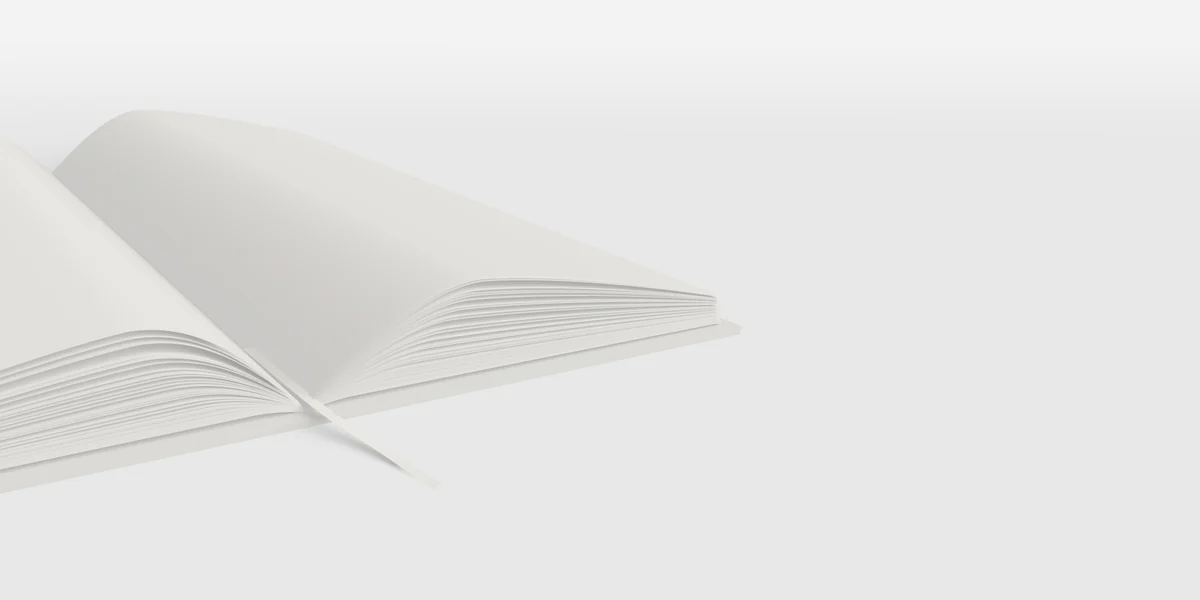
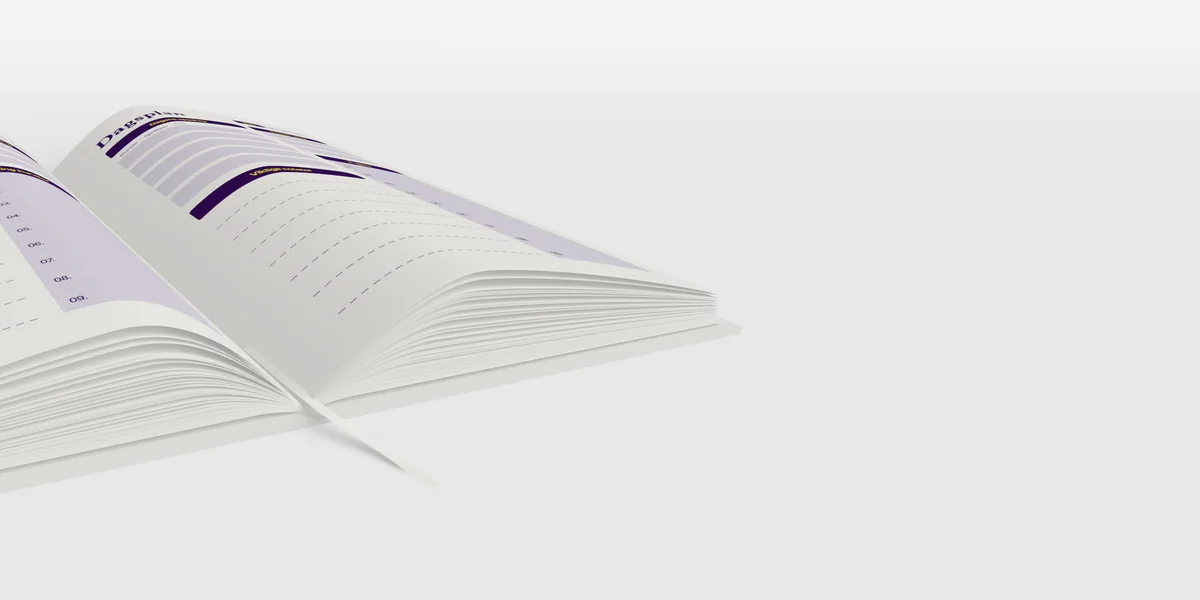
Styupan: day planner for a translation bureau head on the open-book render

diff --git a/tools/book-render/open-book.html b/tools/book-render/open-book.html
@@ -36,8 +36,8 @@ const paper = new THREE.MeshStandardMaterial({ color: 0xfbfaf6, roughness: 0.9, 
 const PUR = '#3C1A5B', YEL = '#FFF748', TINT = '#E4DEE9', PAPER = '#fbfaf6', PX = 10;
 await Promise.all(['700 100px "Crimson Text"', '600 40px "Inter Tight"', '500 30px "Inter Tight"'].map(f => document.fonts.load(f)));
 const SPREAD_PAGES = {
-  '-1': { title: 'Dagsplan', a: ['Dagens oppdrag', 'Kunde  ·  Språkpar  ·  Frist', 5, 'Viktige notater'], b: ['Frister i dag', 3, 'Å gjøre'] },
-  '1':  { title: 'Oppfølging', a: ['Fordeling', 'Oversetter  ·  Oppdrag  ·  Ord', 5, 'Korrektur'], b: ['Fakturering', 3, 'Ring kunder'] },
+  '1':  { title: 'Dagsplan', a: ['Dagens oppdrag', 'Kunde  ·  Språkpar  ·  Frist', 5, 'Viktige notater'], b: ['Frister i dag', 3, 'Å gjøre'] },
+  '-1': { title: 'Oppfølging', a: ['Fordeling', 'Oversetter  ·  Oppdrag  ·  Ord', 5, 'Korrektur'], b: ['Fakturering', 3, 'Ring kunder'] },
 };
 function tab(g, x, y, w, h, fill, label, size = 40) {
   g.fillStyle = fill; g.beginPath(); g.roundRect(x, y, w, h, [12, h * 0.62, 12, 12]); g.fill();
@@ -81,7 +81,8 @@ let seed = 3; const rnd = () => (seed = (seed * 16807) % 2147483647) / 214748364
 function sheet(side, i) {
   const t = i / (N - 1);
   const base = 0.045 * i;
-  const lift = (2 + 26 * Math.pow(t, 2.2)) * (0.95 + 0.1 * rnd());
+  const k = 0.95 + 0.1 * rnd();                          // always drawn, so the other sheets keep their shapes
+  const lift = (2 + 26 * Math.pow(t, 2.2)) * (i === N - 1 ? 1.08 : k);   // the top sheet (the planner page) stays highest
   const crest = 14 + 34 * t;                              // where the sheet stops rising
   const fall = 0.25 + 0.25 * (1 - t);                     // how much of the lift is left at the fore edge
   const geo = new THREE.PlaneGeometry(1, D, 120, 1);

diff --git a/styupan.md b/styupan.md
@@ -33,7 +33,7 @@ Sources: Instagram [@nortranslations](https://www.instagram.com/nortranslations/
 1. **Intro** — her Figma frame 462:2703 (the purple cover with the round logo, the name, OVERSETTELSESBURÅ and scattered letters), exported at 2×. No grey stage (2026-09-29): the purple band fills the full content width and the grey strip below it is dropped, so the round logo (Figma 462:2742, exported on its own and completed at the bottom, where the frame had clipped it) hangs below the purple edge onto the white page. Transparent WebP, 3072 × 970: `assets/work/styupan/intro-3072.webp` + `intro-1536.webp`.
 2. **About / Objective / Idea / Quote.**
 3. **Construction** — the mark on a construction grid, built in SVG from the logo vectors (Figma 881:83892, 169 × 127 units). Guides follow the real geometry: the outer box, the spine at 84.5, the right page 84.5–153.6 × 15–112, the S and T boxes, cap line 37 and baselines 85 / 90.2, the two page-top arcs, each a circle of radius 85.3 through the page corners, and two more circles of the same radius below the book (centres at y 201.1, the top arcs shifted down 115.8) that draw the page bottoms (added 2026-09-29). Yellow mark on the purple ground, dashed light guides, a large faint copy of the mark behind (references: Bexel, RR and octopus grids).
-4. **Colour and type** — Purple #3C1A5B (RGB 60, 26, 91), Yellow #FFF748 (RGB 255, 247, 72), Paper #F5F5F5 (RGB 245, 245, 245), with CMYK as a plain RGB-to-CMYK conversion, marked as an estimate (Purple 34 71 0 64, Yellow 0 3 72 0, Paper 0 0 0 4; not a print-proofed profile); the Crimson Text specimen, laid out as in her reference (a close-up of an open white book with a quote beside it, 2026-09-29): a rendered open book fills the tile, a large purple "Aa" sits on the left, the name, OVERSETTELSESBURÅ and a Norwegian line on the right, the font name small below. The book is a three.js render, no stock photo ([`tools/book-render/open-book.html`](tools/book-render/open-book.html)): 46 curved sheets per side that rise from the gutter and fan out, a ribbon bookmark, soft light averaged over 96 passes, the table fading to white; `assets/work/styupan/type-book-2400.webp` + `-1200.webp`.
+4. **Colour and type** — Purple #3C1A5B (RGB 60, 26, 91), Yellow #FFF748 (RGB 255, 247, 72), Paper #F5F5F5 (RGB 245, 245, 245), with CMYK as a plain RGB-to-CMYK conversion, marked as an estimate (Purple 34 71 0 64, Yellow 0 3 72 0, Paper 0 0 0 4; not a print-proofed profile); the Crimson Text specimen, laid out as in her reference (a close-up of an open white book with a quote beside it, 2026-09-29): a rendered open book fills the tile, a large purple "Aa" sits on the left, the name, OVERSETTELSESBURÅ and a Norwegian line on the right, the font name small below. The book is a three.js render, no stock photo ([`tools/book-render/open-book.html`](tools/book-render/open-book.html)): 46 curved sheets per side that rise from the gutter and fan out, a ribbon bookmark, soft light averaged over 96 passes, the table fading to white; the two top pages carry a day planner laid out after her reference (a purple Daily Planner spread, 2026-09-29) in the brand colours (purple tabs with yellow labels, pale purple rows, Crimson Text titles) and set up for the head of a translation bureau, in Norwegian: right page *Dagsplan* (Dagens oppdrag with Kunde · Språkpar · Frist, Frister i dag, Å gjøre, Viktige notater), left page *Oppfølging* (Fordeling with Oversetter · Oppdrag · Ord, Fakturering, Ring kunder, Korrektur); camera `cx=120&cy=112&cz=250&tx=10&ty=2&tz=50&fov=42&rot=48&sx=0.42&sy=-0.02`, light `ex=1.12&env=0.2&bounce=0.35&kx=700&ky=420&kz=150`, fog `f0=420&f1=1000`; `assets/work/styupan/type-book-2400.webp` + `-1200.webp`.
 5. **On light and dark** — the lockup (mark + name + OVERSETTELSESBURÅ) on Paper and on Purple, then the round seals (Figma 882:83893 purple, 882:83894 yellow): `seal-purple.svg` on Paper, `seal-yellow.svg` on Purple. In the yellow seal the S is purple, the colour of the ground (2026-09-29).
 6. **Signage** — the office sign, as in her Seraj Law reference. *Waiting for her decision on the image* (a photo she provides, or a rendered mockup).
 7. **In use** — the folder photo, her Figma frame 881:83891, 2× export scaled to `folder-2400.webp` + `folder-1200.webp`.
